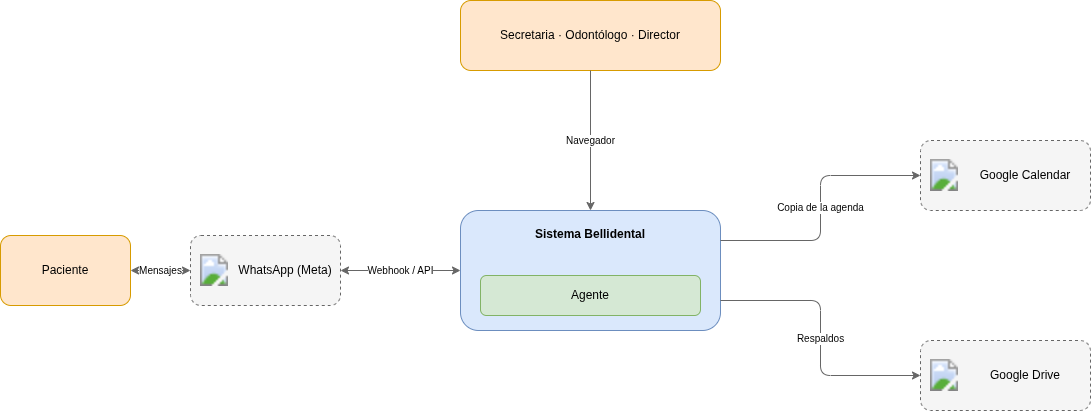
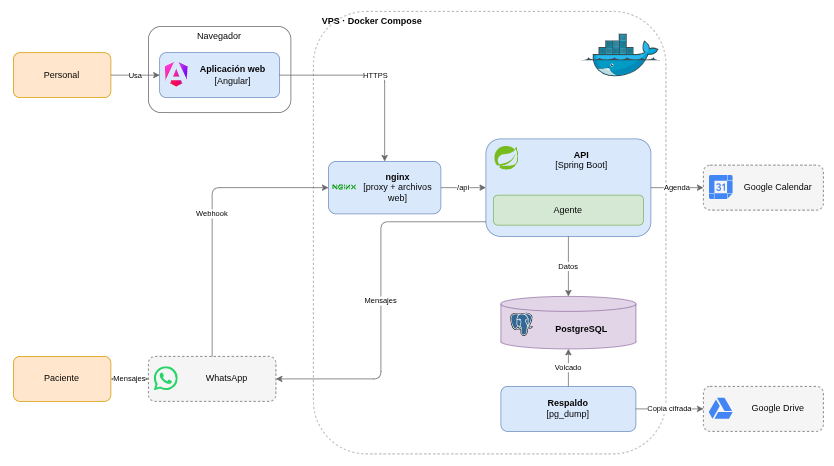
Se actualiza la arquitectura general con diagramas TikZ y se traslada el modelo de datos completo al Anexo 4

diff --git a/tex/ResultsAndDiscussion/ob2/modelo-datos.tex b/tex/ResultsAndDiscussion/ob2/modelo-datos.tex
@@ -1,99 +1,90 @@
 \subsubsection{Modelo de datos}
 
-El modelo relacional deriva del Formulario 033, de la ficha rápida y de los requerimientos del Objetivo 1. Se organiza en doce grupos de tablas, con vínculos explícitos entre ellos; los grupos se aproximan a los módulos de la API, pero no coinciden uno a uno.
+El modelo relacional deriva del Formulario 033, de la ficha rápida y de los requerimientos del Objetivo 1. Su entidad central es la \textbf{atención}: cada cita atendida genera una atención, y en ella se registran los diagnósticos, el odontograma, los tratamientos y la receta. La Figura~\ref{fig:ob2_er_atencion} muestra la atención y sus entidades vecinas; el modelo completo se presenta en el Anexo~4.
 
-\begin{sidewaysfigure}[p]
-    \centering
-    \IfFileExists{img/ER_Bellidental.pdf}{\includegraphics[width=\linewidth,height=0.9\textwidth,keepaspectratio]{img/ER_Bellidental.pdf}}{\fbox{\parbox{0.9\linewidth}{\centering Pendiente: exportar el diagrama de dbdiagram.io a img/ER\_Bellidental.pdf}}}
-    \caption{Diagrama entidad-relación por grupos de tablas}
-    \label{fig:ob2_er}
-\end{sidewaysfigure}
+\begin{figure}[H]
+\centering
+\begin{tikzpicture}[
+    font=\scriptsize, >={Stealth[length=1.8mm]},
+    ent/.style 2 args={rectangle split, rectangle split parts=2, draw=#2, line width=0.7pt,
+        rounded corners=2pt, rectangle split part fill={#1,white}, text width=3.2cm, align=left, inner sep=3pt},
+    rel/.style={draw=black!60, line width=0.6pt},
+    card/.style={font=\tiny, text=black!75, inner sep=1pt}
+]
+    % Fila 1
+    \node[ent={dSistemaF}{dSistemaB}] (pac) at (-5.2,0)
+        {\textbf{Paciente}\nodepart{two}documento\\nombres\\fecha de nacimiento\\teléfono};
+    \node[ent={dSistemaF}{dSistemaB}] (cita) at (0,0)
+        {\textbf{Cita}\nodepart{two}fecha y hora\\estado\\origen};
+    \node[ent={dSistemaF}{dSistemaB}] (prof) at (5.2,0)
+        {\textbf{Profesional}\nodepart{two}nombres\\especialidad\\horario};
+    % Fila 2
+    \node[ent={dClinicoF}{dClinicoB}] (hist) at (-5.2,-3.0)
+        {\textbf{Historia clínica}\nodepart{two}número de historia\\antecedentes\\medicación actual};
+    \node[ent={dClinicoF}{dClinicoB}, line width=1.6pt, text width=3.6cm] (aten) at (0,-3.0)
+        {\textbf{\normalsize ATENCIÓN}\nodepart{two}motivo de consulta\\signos vitales\\examen estomatognático\\planes de tratamiento};
+    \node[ent={dClinicoF}{dClinicoB}] (diag) at (5.2,-3.0)
+        {\textbf{Diagnóstico}\nodepart{two}código CIE-10\\presuntivo o definitivo};
+    % Fila 3
+    \node[ent={dDatosF}{dDatosB}, text width=3.0cm] (pago) at (-5.25,-6.2)
+        {\textbf{Pago}\nodepart{two}monto\\forma de pago\\comprobante};
+    \node[ent={dClinicoF}{dClinicoB}, text width=3.0cm] (rec) at (-1.75,-6.2)
+        {\textbf{Receta}\nodepart{two}medicamento\\dosis, frecuencia\\y duración};
+    \node[ent={dClinicoF}{dClinicoB}, text width=3.0cm] (trat) at (1.75,-6.2)
+        {\textbf{Tratamiento realizado}\nodepart{two}del catálogo\\pieza dental\\precio};
+    \node[ent={dClinicoF}{dClinicoB}, text width=3.0cm] (hall) at (5.25,-6.2)
+        {\textbf{Hallazgo (odontograma)}\nodepart{two}pieza y cara\\condición\\pendiente o realizado};
 
-La Tabla~\ref{tab:ob2_tablas_modulo} asigna cada una de las 32 tablas a su grupo y relaciona cada grupo con los requerimientos que atiende.
+    % Relaciones (1 — N)
+    \draw[rel] (pac) -- node[card, pos=0.12, above] {1} node[card, pos=0.88, above] {N} (cita);
+    \draw[rel] (prof) -- node[card, pos=0.12, above] {1} node[card, pos=0.88, above] {N} (cita);
+    \draw[rel] (pac) -- node[card, pos=0.15, right] {1} node[card, pos=0.85, right] {1} (hist);
+    \draw[rel] (cita) -- node[card, pos=0.15, right] {1} node[card, pos=0.85, right] {1} (aten);
+    \draw[rel] (aten) -- node[card, pos=0.12, above] {1} node[card, pos=0.88, above] {N} (diag);
+    \draw[rel] (aten.south) -- node[card, pos=0.15, above] {1} node[card, pos=0.9, above left] {N} (pago.north east);
+    \draw[rel] (aten.south) -- node[card, pos=0.9, left] {N} (rec.north);
+    \draw[rel] (aten.south) -- node[card, pos=0.9, right] {N} (trat.north);
+    \draw[rel] (aten.south) -- node[card, pos=0.9, above right] {N} (hall.north west);
+\end{tikzpicture}
+\caption{Entidad central del modelo de datos (atención) y sus entidades vecinas}
+\label{fig:ob2_er_atencion}
+\end{figure}
 
-\begingroup
+La Tabla~\ref{tab:ob2_entidades} relaciona cada entidad con los requerimientos que atiende. Se añaden dos entidades propias del agente, vinculadas con el paciente y la cita.
+
+\begin{table}[H]
+\centering
+\caption{Entidades principales del modelo de datos}
+\label{tab:ob2_entidades}
 \fontsize{9}{11}\selectfont
 \renewcommand{\arraystretch}{1.2}
-\setlength{\LTpre}{0pt}\setlength{\LTpost}{6pt}
 \setlength{\tabcolsep}{4pt}
-\begin{longtable}{|>{\raggedright\arraybackslash}p{0.22\linewidth}|>{\raggedright\arraybackslash}p{0.42\linewidth}|>{\raggedright\arraybackslash}p{0.22\linewidth}|}
-\caption{Tablas por grupo del modelo de datos}
-\label{tab:ob2_tablas_modulo} \\
+\begin{tabularx}{\linewidth}{|>{\raggedright\arraybackslash}p{3.6cm}|>{\raggedright\arraybackslash}X|>{\raggedright\arraybackslash}p{2.4cm}|}
 \hline
-\textbf{Grupo} & \textbf{Tablas} & \textbf{Requerimientos} \\ \hline
-\endfirsthead
-\hline
-\textbf{Grupo} & \textbf{Tablas} & \textbf{Requerimientos} \\ \hline
-\endhead
-\hline
-\endfoot
-Identidad y acceso & \texttt{users}, \texttt{roles}, \texttt{permissions}, \texttt{role\_permissions}, \texttt{user\_roles} & RNF01, RNF02; BN4 \\ \hline
-Profesionales y horarios & \texttt{professionals}, \texttt{specialties}, \texttt{professional\_specialties}, \texttt{professional\_schedules} & RF07, RF11 \\ \hline
-Pacientes & \texttt{patients} & RF01, RF06 \\ \hline
-Historia clínica y antecedentes & \texttt{clinical\_records}, \texttt{medical\_history\_conditions}, \texttt{medical\_history\_entries} & RF01, RF06; BN5 \\ \hline
-Agenda & \texttt{appointments} & RF07, RF11, RF12, RF14 \\ \hline
-Atención clínica & \texttt{encounters}, \texttt{encounter\_diagnoses}, \texttt{icd10\_codes} & RF01, RF03 \\ \hline
-Odontograma & \texttt{teeth}, \texttt{tooth\_surfaces}, \texttt{dental\_conditions}, \texttt{dental\_condition\_symbols}, \texttt{dental\_findings} & RF02; BN3 \\ \hline
-Tratamientos & \texttt{treatment\_catalog}, \texttt{performed\_treatments} & RF04, RF08, RF10 \\ \hline
-Recetas & \texttt{medications}, \texttt{medication\_presets}, \texttt{prescriptions}, \texttt{prescription\_items} & RF04, RF05 \\ \hline
-Cobros & \texttt{payments} & RF08 \\ \hline
-Agente conversacional & \texttt{privacy\_consents}, \texttt{appointment\_reminders} & RF09, RF14; BN6, BN7 \\ \hline
-Auditoría & \texttt{revision\_info} y tablas \texttt{*\_aud} (implementación posterior) & RNF02; BN4 \\ \hline
-\end{longtable}
-\endgroup
+\textbf{Entidad} & \textbf{Para qué sirve} & \textbf{Requerimiento} \\ \hline
+Paciente & Identificación y contacto; el teléfono enlaza al paciente con WhatsApp & RF06, RF11 \\ \hline
+Historia clínica & Una por paciente; antecedentes del Formulario 033 & RF01 \\ \hline
+Cita & Agenda única de recepción y agente; impide cruces por profesional & RF07, RF11, RF12 \\ \hline
+Atención & Registro de la consulta en un único momento & RF01, RNF06 \\ \hline
+Diagnóstico & Código CIE-10 de la atención & RF03 \\ \hline
+Hallazgo del odontograma & Estado de cada pieza y cara: rojo pendiente, azul realizado & RF02 \\ \hline
+Tratamiento realizado & Tratamiento del catálogo, con su precio & RF04, RF08 \\ \hline
+Receta & Medicamentos con posología predefinida & RF04, RF05 \\ \hline
+Pago & Abonos; el saldo se calcula, no se guarda & RF08 \\ \hline
+\multicolumn{3}{|l|}{\cellcolor{gray!10}\textbf{Entidades del agente}} \\ \hline
+Aceptación del aviso & Teléfono, versión del aviso y fecha de aceptación & RF09 \\ \hline
+Recordatorio & Envío del día anterior y respuesta del paciente & RF14 \\ \hline
+\end{tabularx}
+\end{table}
 
-Las tablas de la agenda y del agente concentran las reglas que comparten la recepción y el agente. La Tabla~\ref{tab:ob2_tablas_principales} resume sus campos clave y las reglas de diseño que los gobiernan.
+El modelo sigue cuatro principios:
 
-\begingroup
-\fontsize{9}{11}\selectfont
-\renewcommand{\arraystretch}{1.2}
-\setlength{\LTpre}{0pt}\setlength{\LTpost}{6pt}
-\setlength{\tabcolsep}{4pt}
-\begin{longtable}{|>{\raggedright\arraybackslash}p{0.26\linewidth}|>{\raggedright\arraybackslash}p{0.28\linewidth}|>{\raggedright\arraybackslash}p{0.32\linewidth}|}
-\caption{Tablas principales para la agenda y el agente}
-\label{tab:ob2_tablas_principales} \\
-\hline
-\textbf{Tabla} & \textbf{Campos clave} & \textbf{Regla de diseño} \\ \hline
-\endfirsthead
-\hline
-\textbf{Tabla} & \textbf{Campos clave} & \textbf{Regla de diseño} \\ \hline
-\endhead
-\hline
-\endfoot
-\texttt{patients} & \texttt{document\_type}, \texttt{document\_number}, \texttt{birth\_date}, \texttt{phone\_e164} & El tipo y el número de documento y la fecha de nacimiento son obligatorios. El teléfono está en formato E.164 y no es único, porque varios pacientes pueden compartir un número. \\ \hline
-\texttt{appointments} & \texttt{patient\_id}, \texttt{professional\_id}, \texttt{start\_at}, \texttt{end\_at}, \texttt{status}, \texttt{source}, \texttt{rescheduled\_from\_id} & Los estados son pendiente, confirmada, atendida, cancelada, no asistió y reprogramada. El origen distingue la recepción, el profesional, el paciente sin turno previo y el agente. Una restricción de exclusión impide que dos citas del mismo profesional se crucen; las citas canceladas, no asistidas o reprogramadas no bloquean el horario. \texttt{rescheduled\_from\_id} enlaza la cita nueva con la original. \\ \hline
-\texttt{professional\_schedules} & \texttt{professional\_id}, \texttt{weekday}, \texttt{specific\_date}, \texttt{start\_time}, \texttt{end\_time}, \texttt{available} & El horario semanal se repite cada semana (\texttt{weekday}, de 1 a 7). Una fecha puntual puede registrar un turno especial o una excepción. Varias filas por día permiten turnos de mañana y de tarde. Si \texttt{available} es falso, el profesional no atiende ese día. \\ \hline
-\texttt{privacy\_consents} & \texttt{phone\_e164}, \texttt{patient\_id}, \texttt{notice\_version}, \texttt{accepted\_at} & Registra la aceptación del aviso de privacidad por número de teléfono, antes de que exista la ficha del paciente. \texttt{patient\_id} se completa después y \texttt{notice\_version} conserva la versión aceptada. Solo los teléfonos con aceptación reciben recordatorios. \\ \hline
-\texttt{appointment\_reminders} & \texttt{appointment\_id}, \texttt{kind}, \texttt{scheduled\_at}, \texttt{status}, \texttt{wa\_message\_id}, \texttt{response} & Solo puede haber un recordatorio pendiente por cita y tipo. \texttt{status} registra el envío y \texttt{response} la respuesta del paciente: confirmar, cancelar o reprogramar. \\ \hline
-\texttt{users} & \texttt{username}, \texttt{email}, \texttt{password\_hash}, \texttt{is\_system}, \texttt{active} & El usuario técnico del agente (\texttt{is\_system} en verdadero) identifica las acciones del agente, pero no inicia sesión. \\ \hline
-\end{longtable}
-\endgroup
-
-La Tabla~\ref{tab:ob2_principios} recoge cinco principios que sustentan el modelo y los vincula con la norma o el requerimiento de origen.
-
-\begingroup
-\fontsize{9}{11}\selectfont
-\renewcommand{\arraystretch}{1.2}
-\setlength{\LTpre}{0pt}\setlength{\LTpost}{6pt}
-\setlength{\tabcolsep}{4pt}
-\begin{longtable}{|>{\raggedright\arraybackslash}p{0.22\linewidth}|>{\raggedright\arraybackslash}p{0.40\linewidth}|>{\raggedright\arraybackslash}p{0.24\linewidth}|}
-\caption{Principios del modelo de datos}
-\label{tab:ob2_principios} \\
-\hline
-\textbf{Principio} & \textbf{Implementación} & \textbf{Origen} \\ \hline
-\endfirsthead
-\hline
-\textbf{Principio} & \textbf{Implementación} & \textbf{Origen} \\ \hline
-\endhead
-\hline
-\endfoot
-Separación entre datos clínicos y de identificación & Los datos del Formulario 033 se guardan en tablas distintas de la identificación del paciente. Solo el rol de odontólogo puede editarlos; la recepción accede a identificación, agenda y cobros. La tabla \texttt{patients} conserva datos ajenos al formulario, como el grupo sanguíneo y las observaciones de la ficha rápida. & BN3; RNF01; AM 5216-A, arts. 14 y 27 \\ \hline
-Anulación lógica & Las tablas clínicas y de cobros no admiten borrado físico. Cada registro anulado conserva la marca de anulación (\texttt{voided\_at}) y, en atenciones, tratamientos y cobros, el motivo (\texttt{void\_reason}). & RNF04; BN2 \\ \hline
-Saldo calculado & El saldo de cada sesión es la suma de precio por cantidad de sus tratamientos no anulados menos los pagos no anulados asociados a ella; el saldo del paciente acumula sus sesiones. No se almacena. & RF08 \\ \hline
-Trazabilidad & Las citas, los pagos y la apertura de la historia clínica registran a su autor. El historial de cambios se diseña con Hibernate Envers: \texttt{revision\_info} guarda el usuario y la fecha de cada revisión, y una tabla \texttt{*\_aud} por entidad auditada (citas, pacientes, historia, atenciones, diagnósticos, hallazgos, tratamientos, recetas y pagos) guarda cada versión. Estas tablas se implementan después y no se muestran en el diagrama entidad-relación. & RNF02; BN4 \\ \hline
-Edad e índices CPO/ceo calculados & La edad se calcula desde \texttt{birth\_date} hasta la fecha de la atención. Los índices CPO y ceo se obtienen de los hallazgos del odontograma y no se almacenan. & RF01 \\ \hline
-\end{longtable}
-\endgroup
+\begin{itemize}[leftmargin=*]
+    \item \textbf{Separación por rol.} Los datos clínicos se guardan aparte de la identificación; solo el odontólogo los edita (RNF01; BN3).
+    \item \textbf{Sin borrado físico.} Los registros clínicos y de cobros se anulan, no se eliminan (RNF04; BN2).
+    \item \textbf{Valores calculados.} El saldo, la edad y los índices CPO y ceo se calculan, no se almacenan (RF01, RF08).
+    \item \textbf{Trazabilidad.} Cada cambio registra el usuario y la fecha (RNF02; BN4).
+\end{itemize}
 
 \paragraph{Estados de la cita}
 

diff --git a/tex/ResultsAndDiscussion/ob2/arquitectura-general.tex b/tex/ResultsAndDiscussion/ob2/arquitectura-general.tex
@@ -1,6 +1,6 @@
 \subsubsection{Arquitectura general del sistema}
 
-La arquitectura se describe con el modelo C4 en dos niveles, de contexto y de contenedores, y con el estilo de monolito modular; el detalle de los componentes del agente conversacional se presenta en un apartado propio.
+La estructura se describe con el modelo C4 \cite{brown2018c4} en los niveles de contexto y de contenedores; el comportamiento y el despliegue, con UML \cite{omg2017uml}. Los componentes del agente conversacional se presentan en un apartado propio.
 
 \paragraph{Diagrama de contexto}
 
@@ -39,7 +39,7 @@ La aplicación web se ejecuta en el navegador de cada usuario; los demás conten
 
 \begin{figure}[H]
 \centering
-\IfFileExists{img/C4_Contenedores.png}{\includegraphics[width=\linewidth]{img/C4_Contenedores.png}}{\fbox{\parbox{0.9\linewidth}{\centering Pendiente: dibujar en draw.io según diagramas/drawio/ESPECIFICACION-arquitectura-general.md y exportar a img/C4\_Contenedores.pdf}}}
+\IfFileExists{diagramas/drawio/Contenedores_C4_2.png}{\includegraphics[width=\linewidth]{diagramas/drawio/Contenedores_C4_2.png}}{\fbox{\parbox{0.9\linewidth}{\centering Pendiente: dibujar en draw.io según diagramas/drawio/ESPECIFICACION-arquitectura-general.md y exportar a img/C4\_Contenedores.pdf}}}
 \caption{Diagrama de contenedores del sistema (C4, nivel 2)}
 \label{fig:ob2_c4_contenedores}
 \end{figure}
@@ -64,44 +64,64 @@ Servicio de respaldo & \texttt{pg\_dump} programado en Docker & Genera un volcad
 
 \paragraph{Estilo arquitectónico: monolito modular}
 
-La API es un monolito modular: una aplicación desplegada como una única unidad, cuyo código se divide en doce módulos con interfaces públicas (Figura~\ref{fig:ob2_modulos}). La Tabla~\ref{tab:ob2_modulos} resume la responsabilidad de cada módulo, la interfaz que expone y sus dependencias.
+La API se organiza como un monolito modular: una sola aplicación, desplegada como una unidad, cuyo código se divide en módulos por área funcional \cite{richards2020fundamentals}. Los antecedentes separan cada capacidad en un microservicio \cite{roca2020microservice,arcila2022microservice}. En una clínica pequeña, con un único desarrollador y un único servidor, esa separación añadiría despliegues, comunicación por red y monitoreo por servicio, una complejidad sin beneficio proporcional. De \cite{roca2020microservice} se conserva la idea de añadir capacidades sin modificar el núcleo, y de \cite{arcila2022microservice}, la autenticación con JWT.
+
+La Figura~\ref{fig:ob2_modulos} agrupa los módulos esenciales y muestra cómo se comunican. La Tabla~\ref{tab:ob2_modulos} resume qué hace cada uno.
 
 \begin{figure}[H]
 \centering
-\IfFileExists{img/Modulos.png}{\includegraphics[width=\linewidth]{img/Modulos.png}}{\fbox{\parbox{0.9\linewidth}{\centering Pendiente: dibujar en draw.io según diagramas/drawio/ESPECIFICACION-arquitectura-general.md y exportar a img/Modulos.pdf}}}
-\caption{Módulos de la API y sus dependencias por interfaz pública}
+\begin{tikzpicture}[
+    font=\footnotesize, >={Stealth[length=2mm]},
+    grupo/.style={draw, rounded corners=4pt, line width=0.8pt, align=center, inner sep=6pt, text width=#1},
+    flecha/.style={->, draw=black!65, line width=0.6pt},
+    evento/.style={->, draw=black!65, line width=0.6pt, dashed},
+    et/.style={font=\scriptsize, fill=white, inner sep=1.5pt}
+]
+    \node[grupo=3.9cm, fill=dSistemaF, draw=dSistemaB] (agenda) at (0,2.7)
+        {\textbf{Agenda}\\[2pt] Citas y regla anticruce\\ Copia en Google Calendar};
+    \node[grupo=3.9cm, fill=dSistemaF, draw=dSistemaB] (base) at (0,0)
+        {\textbf{Base}\\[2pt] Identidad y acceso\\ Pacientes\\ Profesionales y horarios};
+    \node[grupo=3.5cm, fill=dClinicoF, draw=dClinicoB] (clin) at (5.0,1.35)
+        {\textbf{Clínico y cobros}\\[2pt] Historia y atención\\ Odontograma\\ Tratamientos y recetas\\ Cobros};
+    \node[grupo=2.6cm, fill=dAgenteF, draw=dAgenteB] (agente) at (-5.6,1.35)
+        {\textbf{Agente}\\[2pt] Conversación\\ por WhatsApp\\ Recordatorios};
+
+    \draw[flecha] (agenda) -- node[et] {usa} (base);
+    \draw[flecha] ([yshift=8pt]clin.west) -- node[et] {usa} (agenda.east);
+    \draw[flecha] ([yshift=-8pt]clin.west) -- node[et] {usa} (base.east);
+    \draw[flecha] ([yshift=14pt]agente.east) -- node[et, sloped, above=1pt, fill=none] {agenda citas} ([yshift=4pt]agenda.west);
+    \draw[evento] ([yshift=-6pt]agenda.west) -- node[et, sloped, below=1pt, fill=none] {eventos de cita} ([yshift=4pt]agente.east);
+    \draw[flecha] ([yshift=-12pt]agente.east) -- node[et, sloped, below=1pt, fill=none] {identifica} (base.west);
+
+    \node[font=\scriptsize\itshape, text=black!70, align=center, below=3pt of agente] {Sin acceso a datos\\clínicos (RNF03)};
+
+    \node[draw=dExternoB, dashed, fill=dExternoF, rounded corners=3pt, minimum height=0.6cm,
+          minimum width=13.6cm, font=\footnotesize\bfseries] at (0,-1.6) {Base de datos compartida (PostgreSQL)};
+
+    \draw[flecha] (-6.8,-2.35) -- ++(0.8,0) node[right, font=\scriptsize, text=black] {llamada por interfaz pública};
+    \draw[evento] (-1.4,-2.35) -- ++(0.8,0) node[right, font=\scriptsize, text=black] {evento de dominio};
+\end{tikzpicture}
+\caption{Módulos esenciales de la API y su comunicación}
 \label{fig:ob2_modulos}
 \end{figure}
 
 \begin{table}[H]
 \centering
-\caption{Módulos del monolito modular}
+\caption{Módulos esenciales del monolito modular}
 \label{tab:ob2_modulos}
-\fontsize{8}{10}\selectfont
+\fontsize{9}{11}\selectfont
 \renewcommand{\arraystretch}{1.2}
 \setlength{\tabcolsep}{4pt}
-\begin{tabularx}{\linewidth}{|>{\raggedright\arraybackslash}p{2.9cm}|>{\raggedright\arraybackslash}X|>{\raggedright\arraybackslash}p{3.8cm}|>{\raggedright\arraybackslash}p{2.6cm}|>{\raggedright\arraybackslash}p{1.7cm}|}
+\begin{tabularx}{\linewidth}{|>{\raggedright\arraybackslash}p{3.6cm}|>{\raggedright\arraybackslash}X|>{\raggedright\arraybackslash}p{2.2cm}|}
 \hline
-\textbf{Módulo} & \textbf{Responsabilidad} & \textbf{Interfaz pública} & \textbf{Depende de} & \textbf{RF/RNF} \\ \hline
-\texttt{identity} & Usuarios, roles y autenticación con JWT & Ninguna & Ninguno & RNF01 \\ \hline
-\texttt{patients} & Datos de identificación e historial inmediato & \texttt{PatientDirectory} & Ninguno & RF06 \\ \hline
-\texttt{professionals} & Profesionales, especialidades y horarios & \texttt{ProfessionalDirectory} & Ninguno & RF07 \\ \hline
-\texttt{clinicalrecords} & Historia clínica y antecedentes & \texttt{ClinicalRecordDirectory} & \texttt{patients} & RF01 \\ \hline
-\texttt{appointments} & Agenda única, validación anticruce y reprogramación & \texttt{AppointmentScheduler} & \texttt{patients}, \texttt{professionals} & RF07, RF11, RF12 \\ \hline
-\texttt{clinical} & Atenciones y diagnósticos con CIE-10 & \texttt{ClinicalDirectory} & \texttt{appointments}, \texttt{clinicalrecords} & RF01, RF03 \\ \hline
-\texttt{odontogram} & Odontograma por pieza y cara & Ninguna & \texttt{clinical}, \texttt{patients} & RF02 \\ \hline
-\texttt{treatments} & Catálogo de tratamientos y precios & \texttt{TreatmentDirectory} & Ninguno & RF04 \\ \hline
-\texttt{prescriptions} & Recetas y su impresión & Ninguna & \texttt{clinical} & RF04, RF05 \\ \hline
-\texttt{billing} & Abonos, saldo calculado y comprobante interno & \texttt{BillingDirectory} & \texttt{clinical}, \texttt{treatments}, \texttt{patients} & RF08 \\ \hline
-\texttt{calendar} & Copia de solo lectura en Google Calendar & Ninguna & \texttt{appointments} (eventos), \texttt{professionals} & RF07 \\ \hline
-\texttt{whatsapp} & Motor conversacional del agente, aviso de privacidad, webhook y recordatorios & Ninguna (webhook de entrada) & \texttt{patients}, \texttt{professionals}, \texttt{appointments}, \texttt{treatments} (solo precios) & RF09 a RF14, RNF03, RNF05 \\ \hline
+\textbf{Módulo} & \textbf{Qué hace} & \textbf{Requerimiento} \\ \hline
+Identidad y acceso & Usuarios, roles e inicio de sesión & RNF01 \\ \hline
+Pacientes y profesionales & Datos de identificación, profesionales y horarios & RF06, RF07 \\ \hline
+Agenda & Citas sin cruces, reprogramación y copia en Google Calendar & RF07, RF11, RF12 \\ \hline
+Clínico & Historia clínica, odontograma, tratamientos y recetas & RF01 a RF05 \\ \hline
+Cobros & Abonos y saldo por sesión & RF08 \\ \hline
+Agente & Conversación por WhatsApp, aviso de privacidad y recordatorios & RF09 a RF14 \\ \hline
 \end{tabularx}
 \end{table}
 
-Los módulos \texttt{identity}, \texttt{patients}, \texttt{professionals}, \texttt{clinicalrecords}, \texttt{appointments}, \texttt{clinical} y \texttt{odontogram} ya tienen código; los demás y sus dependencias son de diseño. La tabla usa nombres funcionales: en el código, el paquete reservado para el agente y la sincronización se denomina \texttt{notifications}, y existe además un paquete \texttt{dashboard} para indicadores. La auditoría (RNF02) es transversal y no constituye un módulo.
-
-Los módulos no invocan los servicios de otro módulo, salvo a través de su interfaz pública. Los cambios relevantes, como la creación o la reprogramación de una cita, se comunican mediante eventos de dominio, que alimentan la sincronización con Google Calendar y la programación de recordatorios. El módulo del agente no depende de los módulos clínicos ni de cobros. Así, un cambio en las reglas de agendamiento no altera la conversación, como establece el atributo de mantenibilidad de la Tabla~\ref{tab:ob2_atributos}.
-
-El monolito modular separa responsabilidades en el código y evita el costo operativo de distribuirlas en servicios \cite{richards2020fundamentals}. Los antecedentes distribuyen cada capacidad en un servicio independiente \cite{roca2020microservice,arcila2022microservice}; con un único desarrollador y un único servidor, esa distribución añadiría despliegues, comunicación de red y monitoreo por servicio sin un beneficio proporcional. De \cite{roca2020microservice} se toma la incorporación de capacidades sin modificar el núcleo: el módulo del agente se añade mediante interfaces públicas. Como en el prototipo de \cite{arcila2022microservice}, la autenticación se realiza con JWT.
-
-La separación no es completa: los módulos comparten el esquema de la base de datos y la capa de persistencia, de modo que un cambio de tabla puede afectar a más de un módulo. Esta limitación se discute en el apartado de discusión.
+Cada módulo expone una interfaz pública y no accede al interior de los demás. Los cambios de la agenda, como crear o reprogramar una cita, se publican como eventos que alimentan la copia en Google Calendar y los recordatorios. Así, un cambio en las reglas de agendamiento no altera la conversación del agente (Tabla~\ref{tab:ob2_atributos}). La auditoría (RNF02) es transversal y no forma un módulo. La separación no es completa: los módulos comparten la base de datos, de modo que un cambio de tabla puede afectar a más de uno.

diff --git a/tex/Appendices/appendices.tex b/tex/Appendices/appendices.tex
@@ -29,3 +29,46 @@
 \caption{Esquema metodológico.}
 \label{fig:esquema-metodologico}
 \end{figure}
+
+\newpage
+\textbf{Anexo 4. Modelo de datos completo}
+
+La Figura~\ref{fig:ob2_er} presenta el diagrama entidad-relación completo y la Tabla~\ref{tab:ob2_tablas_modulo} agrupa sus tablas.
+
+\begin{sidewaysfigure}[p]
+    \centering
+    \IfFileExists{img/ER_Bellidental.pdf}{\includegraphics[width=\linewidth,height=0.9\textwidth,keepaspectratio]{img/ER_Bellidental.pdf}}{\fbox{\parbox{0.9\linewidth}{\centering Pendiente: exportar el diagrama de dbdiagram.io a img/ER\_Bellidental.pdf}}}
+    \caption{Diagrama entidad-relación completo}
+    \label{fig:ob2_er}
+\end{sidewaysfigure}
+
+\begingroup
+\fontsize{9}{11}\selectfont
+\renewcommand{\arraystretch}{1.2}
+\setlength{\LTpre}{0pt}\setlength{\LTpost}{6pt}
+\setlength{\tabcolsep}{4pt}
+\begin{longtable}{|>{\raggedright\arraybackslash}p{0.22\linewidth}|>{\raggedright\arraybackslash}p{0.42\linewidth}|>{\raggedright\arraybackslash}p{0.22\linewidth}|}
+\caption{Tablas del modelo de datos por grupo}
+\label{tab:ob2_tablas_modulo} \\
+\hline
+\textbf{Grupo} & \textbf{Tablas} & \textbf{Requerimientos} \\ \hline
+\endfirsthead
+\hline
+\textbf{Grupo} & \textbf{Tablas} & \textbf{Requerimientos} \\ \hline
+\endhead
+\hline
+\endfoot
+Identidad y acceso & \texttt{users}, \texttt{roles}, \texttt{permissions}, \texttt{role\_permissions}, \texttt{user\_roles} & RNF01, RNF02; BN4 \\ \hline
+Profesionales y horarios & \texttt{professionals}, \texttt{specialties}, \texttt{professional\_specialties}, \texttt{professional\_schedules} & RF07, RF11 \\ \hline
+Pacientes & \texttt{patients} & RF01, RF06 \\ \hline
+Historia clínica y antecedentes & \texttt{clinical\_records}, \texttt{medical\_history\_conditions}, \texttt{medical\_history\_entries} & RF01, RF06; BN5 \\ \hline
+Agenda & \texttt{appointments} & RF07, RF11, RF12, RF14 \\ \hline
+Atención clínica & \texttt{encounters}, \texttt{encounter\_diagnoses}, \texttt{icd10\_codes} & RF01, RF03 \\ \hline
+Odontograma & \texttt{teeth}, \texttt{tooth\_surfaces}, \texttt{dental\_conditions}, \texttt{dental\_condition\_symbols}, \texttt{dental\_findings} & RF02; BN3 \\ \hline
+Tratamientos & \texttt{treatment\_catalog}, \texttt{performed\_treatments} & RF04, RF08, RF10 \\ \hline
+Recetas & \texttt{medications}, \texttt{medication\_presets}, \texttt{prescriptions}, \texttt{prescription\_items} & RF04, RF05 \\ \hline
+Cobros & \texttt{payments} & RF08 \\ \hline
+Agente conversacional & \texttt{privacy\_consents}, \texttt{appointment\_reminders} & RF09, RF14; BN6, BN7 \\ \hline
+Auditoría & \texttt{revision\_info} y tablas \texttt{*\_aud} (implementación posterior) & RNF02; BN4 \\ \hline
+\end{longtable}
+\endgroup

diff --git a/diagramas/drawio/ESPECIFICACION-arquitectura-general.md b/diagramas/drawio/ESPECIFICACION-arquitectura-general.md
@@ -81,6 +81,8 @@ Límites: caja punteada **VPS · Docker Compose** con nginx, API, PostgreSQL y R
 
 ## 3. Módulos de la API (simplificado)
 
+> **Reemplazado:** la figura `fig:ob2_modulos` ahora se dibuja en TikZ dentro de `arquitectura-general.tex`, con nombres funcionales en español. Esta especificación queda solo como referencia.
+
 Sin interfaces, sin responsabilidades. Cuatro grupos de color con los nombres de los módulos dentro, y **solo cinco flechas entre grupos**.
 
 | Grupo (caja) | Color | Módulos (texto) |

diff --git a/diagramas/drawio/ESPECIFICACION-agente.md b/diagramas/drawio/ESPECIFICACION-agente.md
@@ -4,6 +4,8 @@
 |---|---|
 | `img/C4_Componentes_Agente.pdf` | `fig:ob2_c4_componentes` |
 
+> Uso actual: figura de integración del agente (apartado «Mecanismos de integración»). La estructura lógica y los componentes funcionales se dibujan en TikZ.
+
 Paleta y reglas: las de `ESPECIFICACION-arquitectura-general.md`. Solo nombres en las cajas, **sin descripciones ni tecnologías**. Nueve cajas en total.
 
 ## Elementos
